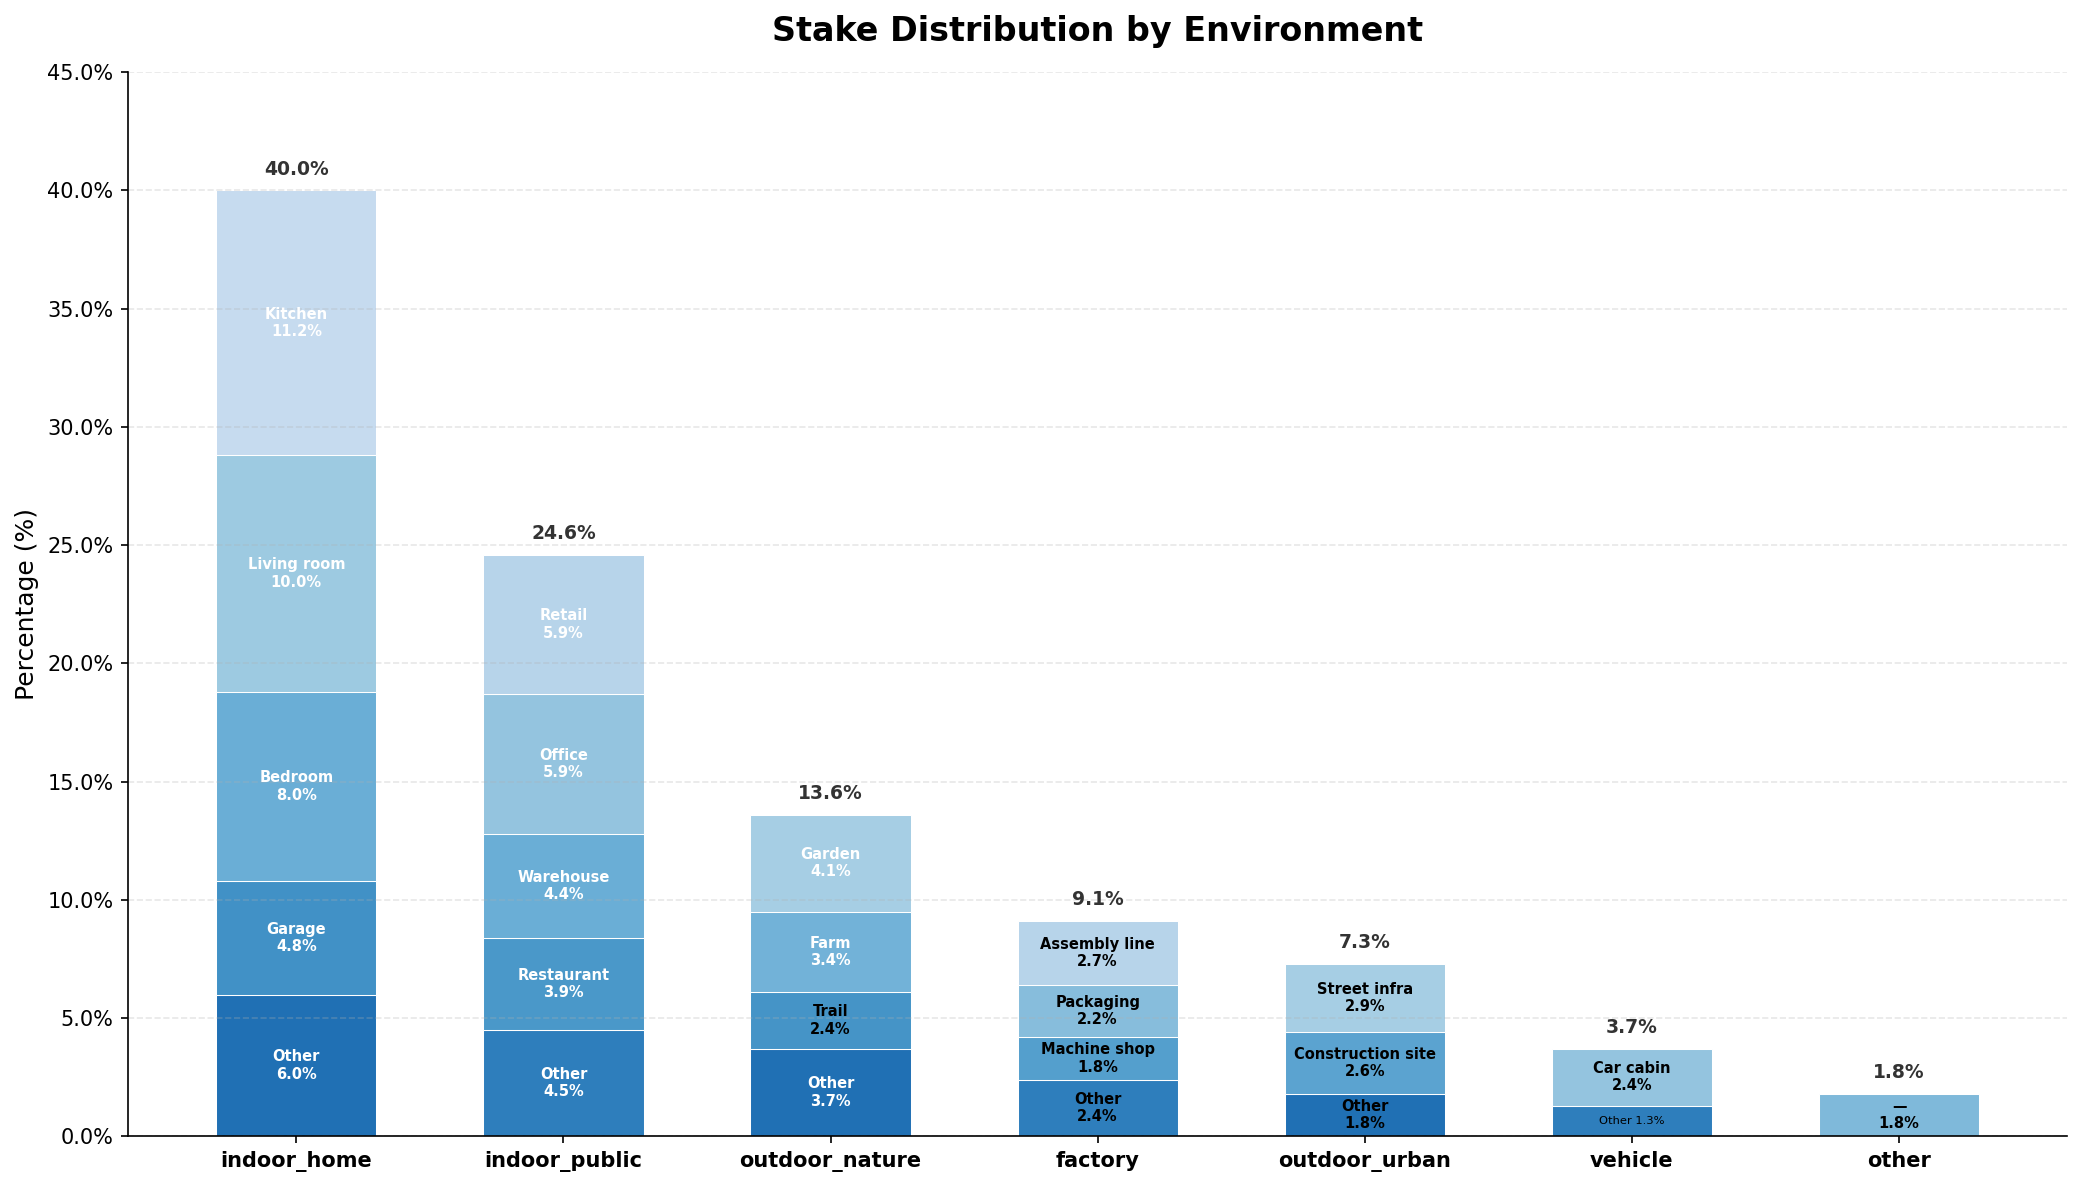
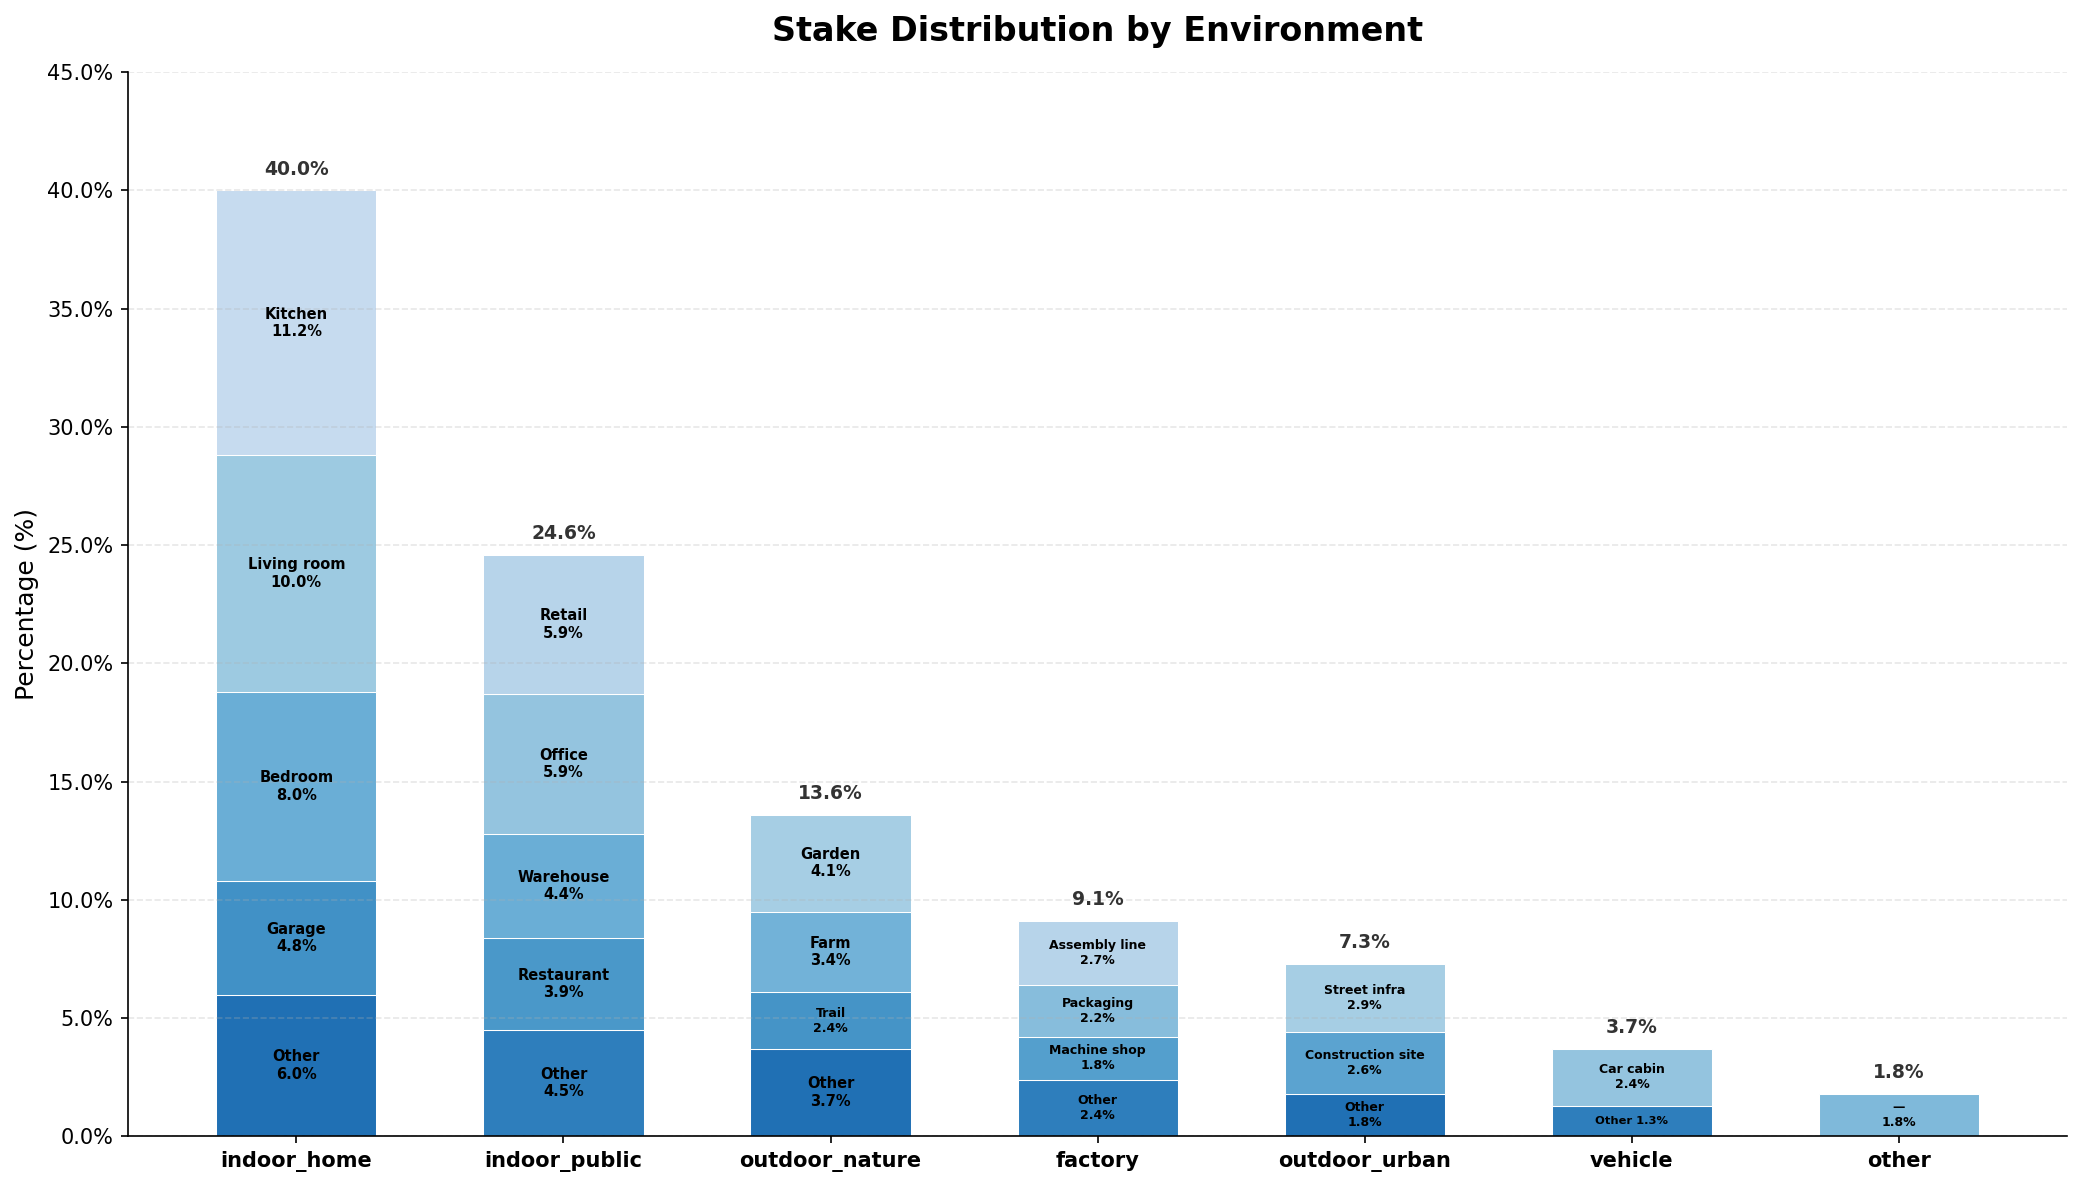
Make all histogram text black and auto-scale font size to fit segments
https://claude.ai/code/session_018xFGws4xpUTXJntMBVQsZP

diff --git a/stake_histogram.py b/stake_histogram.py
@@ -82,29 +82,30 @@ for i, env in enumerate(env_names):
             linewidth=0.5,
         )
 
-        # Add label inside the bar segment if tall enough
+        # Add label inside the bar segment, scaling font to fit
         mid_y = bottom + pct / 2
-        if pct >= 1.5:
-            ax.text(
-                x_positions[i],
-                mid_y,
-                f"{sub_name}\n{pct}%",
-                ha="center",
-                va="center",
-                fontsize=7,
-                fontweight="bold",
-                color="white" if pct >= 3.0 else "black",
-            )
-        elif pct >= 0.8:
-            ax.text(
-                x_positions[i],
-                mid_y,
-                f"{sub_name} {pct}%",
-                ha="center",
-                va="center",
-                fontsize=5.5,
-                color="black",
-            )
+        if pct >= 3.0:
+            label = f"{sub_name}\n{pct}%"
+            fontsize = 7
+        elif pct >= 1.8:
+            label = f"{sub_name}\n{pct}%"
+            fontsize = 6
+        elif pct >= 1.2:
+            label = f"{sub_name} {pct}%"
+            fontsize = 5.5
+        else:
+            label = f"{sub_name} {pct}%"
+            fontsize = 4.5
+        ax.text(
+            x_positions[i],
+            mid_y,
+            label,
+            ha="center",
+            va="center",
+            fontsize=fontsize,
+            fontweight="bold",
+            color="black",
+        )
 
         bottom += pct
 
